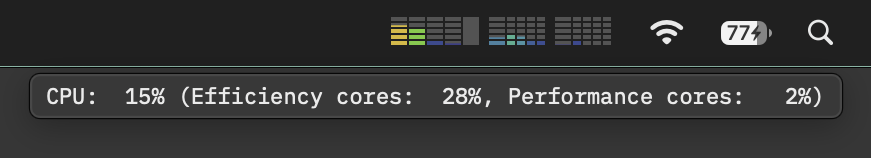
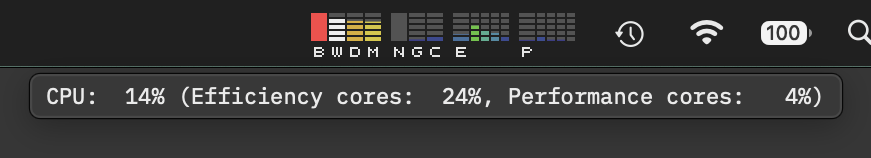
Retake the README screenshots with the battery and Wi-Fi bars and the bar letters, add the battery and Wi-Fi hover labels, and letter memory M in the README

diff --git a/README.md b/README.md
@@ -16,7 +16,7 @@ A lightweight CPU monitoring tool designed specifically for the macOS menu bar. 
 
 `cpuTopBars` provides real-time insights into your system's CPU usage with a focus on aesthetics and customization.
 
-* **Real-time Menu Bar Visualization:** View your CPU activity at a glance with a live-updating graph right in your macOS menu bar, beside small bars, in this order, for the battery (on a Mac with one: a bar filled to its charge, red on battery, green while it charges and white (black on a light menu bar) while plugged in and not charging, with the charge in percent written down it below 100%), the Wi-Fi signal (five segments), disk and memory use, then after a small gap the Neural Engine (its busy share in the version built from this repository, whether it is powered on in the App Store versions), GPU use and overall CPU use, then bars for the efficiency cores' and the performance cores' use, each of these two heading its own cores' bars when the graph shows each core and the Mac lists its efficiency cores first, and under each of these bars its letter: B battery, W Wi-Fi, D disk, R memory, N Neural Engine, G GPU, C CPU, E and P the efficiency and performance cores (switchable in Settings, the battery and Wi-Fi bars and the letters each with a switch of their own).
+* **Real-time Menu Bar Visualization:** View your CPU activity at a glance with a live-updating graph right in your macOS menu bar, beside small bars, in this order, for the battery (on a Mac with one: a bar filled to its charge, red on battery, green while it charges and white (black on a light menu bar) while plugged in and not charging, with the charge in percent written down it below 100%), the Wi-Fi signal (five segments), disk and memory use, then after a small gap the Neural Engine (its busy share in the version built from this repository, whether it is powered on in the App Store versions), GPU use and overall CPU use, then bars for the efficiency cores' and the performance cores' use, each of these two heading its own cores' bars when the graph shows each core and the Mac lists its efficiency cores first, and under each of these bars its letter: B battery, W Wi-Fi, D disk, M memory, N Neural Engine, G GPU, C CPU, E and P the efficiency and performance cores (switchable in Settings, the battery and Wi-Fi bars and the letters each with a switch of their own).
 * **Top Process Tracking:** Quickly identify which of your processes are consuming the most CPU with a ranked list of processes, titled "TOP PROCESSES BY CPU" in the version built from this repository and "YOUR TOP PROCESSES BY CPU" in the App Store versions, each with its CPU share and its memory (physical footprint, in GB); in the version built from this repository the list ranks other users' processes too, among them macOS's system daemons and WindowServer, while it is sorted by CPU; sorted by memory, and in the App Store versions, they are counted in one row below it.
 * **System readings:** when the menu opens, a panel beside it shows uptime, the battery's charge and whether it is charging, Wi-Fi's signal while connected (else whether it is on), then startup-volume, memory and overall CPU usage as percentages with their sizes, the disk and memory with their free and used space, memory with its swap in use and CPU with its efficiency and performance cores' use, GPU use (with its power in watts in the version built from this repository) and the Neural Engine's busy share (in the App Store versions, whether it is powered on), all read on the Mac; nothing is sent over the network.
 * **Hover labels:** rest the pointer on a bar for a second to see its value below the menu bar; on the core bars it lists each core's load, and on the Wi-Fi bar, while connected, the details the macOS Wi-Fi menu shows with the Option key held (IP address, router, MAC address, security, channel, noise, transmit rate and PHY mode; not the network's name, so no Location Services permission is asked).
@@ -34,7 +34,13 @@ A lightweight CPU monitoring tool designed specifically for the macOS menu bar. 
 
 Rest the pointer on a bar for a second and its reading shows below the menu bar.
 
-* **Wi-Fi:** while connected, the signal, then the IP address, router, MAC address, security, channel, noise, transmit rate and PHY mode; else whether Wi-Fi is off or not connected.
+* **Battery:** the battery's charge, and whether it is charging, not charging, charged, or on battery, with the time left when macOS gives one.
+
+<img src="screenshots/hover-battery.png" width="298" alt="Battery label">
+
+* **Wi-Fi:** while connected, the signal, then the IP address, router, MAC address, security, channel, noise, transmit rate and PHY mode; else whether Wi-Fi is off or not connected. In the picture the addresses are blacked out.
+
+<img src="screenshots/hover-wifi.png" width="264" alt="Wi-Fi label, addresses blacked out">
 
 * **Disk:** the startup volume's use, with its free and used space.
 
@@ -50,19 +56,19 @@ Rest the pointer on a bar for a second and its reading shows below the menu bar.
 
 * **GPU:** the GPU's use.
 
-<img src="screenshots/hover-gpu.png" width="153" alt="GPU label">
+<img src="screenshots/hover-gpu.png" width="175" alt="GPU label">
 
 * **Neural Engine:** the Neural Engine's busy share (in the App Store versions, whether it is powered on).
 
-<img src="screenshots/hover-neural-engine.png" width="174" alt="Neural Engine label">
+<img src="screenshots/hover-neural-engine.png" width="195" alt="Neural Engine label">
 
 * **Efficiency cores:** their use, then each efficiency core's load; › marks the core under the pointer.
 
-<img src="screenshots/hover-e-cores.png" width="195" alt="Efficiency cores label">
+<img src="screenshots/hover-e-cores.png" width="204" alt="Efficiency cores label">
 
 * **Performance cores:** the same for the performance cores.
 
-<img src="screenshots/hover-p-cores.png" width="218" alt="Performance cores label">
+<img src="screenshots/hover-p-cores.png" width="240" alt="Performance cores label">
 
 ## 🛠 Installation
 
